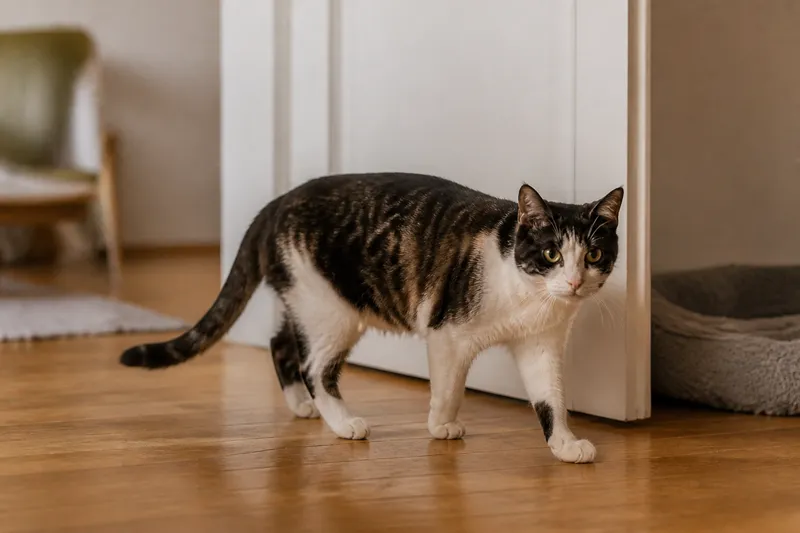
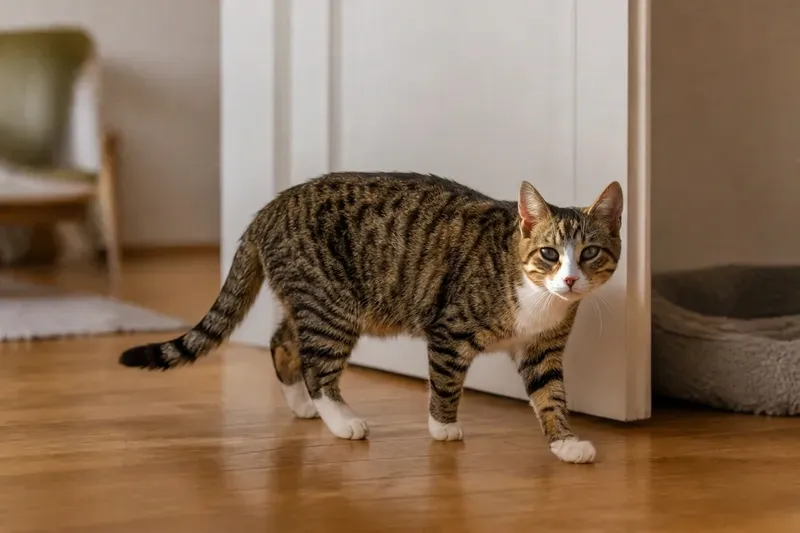
feat(frontend): replace the daily visit photo
Use the new 800x533 WebP photo and describe the tabby cat in the alt text.

Changed region(s): [[0.1562, 0.3002, 0.7812, 0.8405], [0.375, 0.9606, 0.4062, 1.0]]

diff --git a/frontend/src/content/hu.ts b/frontend/src/content/hu.ts
@@ -178,7 +178,7 @@ export const hu = {
         icon: "house",
         title: "Napi látogatás",
         body: "Megetetem a cicádat, friss vizet adok, kitakarítom az almot, és jut idő játékra, simogatásra is. Minden látogatás után fotót és rövid üzenetet küldök.",
-        imageAlt: "Fekete-fehér cica sétál a nyitott ajtó mellett",
+        imageAlt: "Cirmos-fehér cica sétál a nyitott ajtó mellett",
       },
       {
         icon: "cats",
